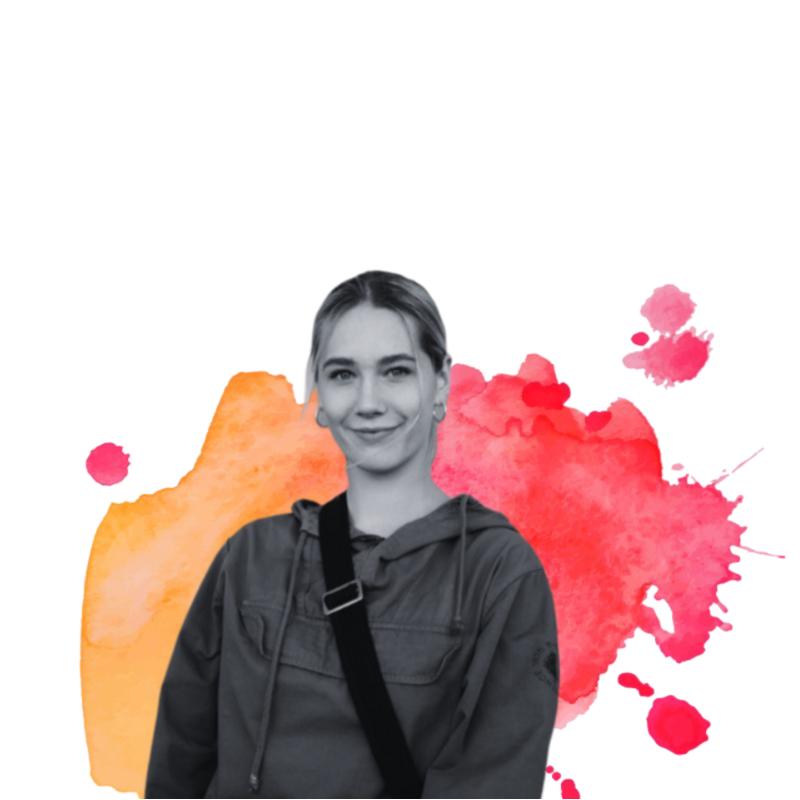
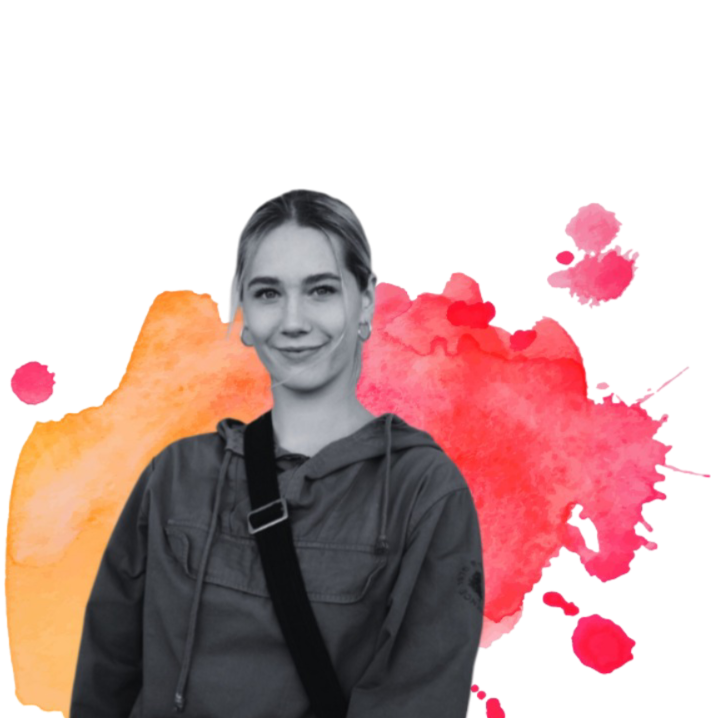
Improve responsiveness

diff --git a/src/pages/Home/components/Info.jsx b/src/pages/Home/components/Info.jsx
@@ -6,29 +6,31 @@ import { TypeAnimation } from "react-type-animation"
 
 const Info = () => {
   return (
-    <div>
-      <div
-        className="max-w-[1200px] h-[100vh] mx-auto flex flex-col-reverse sm:flex-row align-center justify-between"
-        id="home"
-      >
-        <div className="mx-8 my-auto flex-col">
+    <div
+      className="max-w-[1200px] min-h-screen mx-auto px-3 sm:px-8 flex items-center"
+      id="home"
+    >
+      <div className="my-auto flex flex-col-reverse sm:flex-row justify-between w-full">
+        <div className="ml-4 flex flex-col justify-center">
           <h2 className="title-large">
             Hi, I&apos;m Laurel
           </h2>
-          <h1 className="md:text-6xl sm-text-4xl text-3xl font-bold"><TypeAnimation
-            sequence={[
-              "Master's Student", 
-              1000,
-              "Software Developer", 
-              1000,
-              "UX Enthusiast",
-              1000,
-            ]}
-            wrapper="span"
-            speed={50}
-            repeat={Infinity}
-          /></h1>
-          <div className="my-7 flex justify-start gap-5 text-3xl text-accent md:text-5xl">
+          <h3 className="text-2xl sm:text-3xl md:text-4xl lg:text-5xl xl:text-6xl font-bold">
+            <TypeAnimation
+              sequence={[
+                "Master's Student", 
+                1000,
+                "Software Developer", 
+                1000,
+                "UX Enthusiast",
+                1000,
+              ]}
+              wrapper="span"
+              speed={50}
+              repeat={Infinity}
+            />
+          </h3>
+          <div className="my-7 flex justify-start gap-5 text-3xl sm:text-3xl md:text-4xl text-accent">
             <a
               href="https://github.com/laurelcrelia"
               className="button-hover text-accent"
@@ -49,11 +51,11 @@ const Info = () => {
             </a>
           </div>
         </div>
-        <div className="my-auto">
-          <img className="w-[400px] sm:w-[500px] mx-auto h-auto rounded-full brightness-95" src={profilepic} alt="profile pic" />
+        <div className="mb-8">
+          <img className="w-[350px] sm:w-[300px] md:w-[350px] lg:w-[400px] xl:w-[500px] mx-auto h-auto rounded-full brightness-95" src={profilepic} alt="profile pic" />
+        </div>
         </div>
       </div>
-    </div>
   )
 }
 

diff --git a/src/pages/Home/components/Projects.jsx b/src/pages/Home/components/Projects.jsx
@@ -8,7 +8,7 @@ const Projects = () => {
     >
       <div className="px-4 mb-4 items-center gap-12 md:flex-col-reverse md:gap-6">
         <div className="flex flex-col">
-          <h2 className="title-large">
+          <h2 className="title-large ml-3">
             My <span>Projects</span>
           </h2>
 
